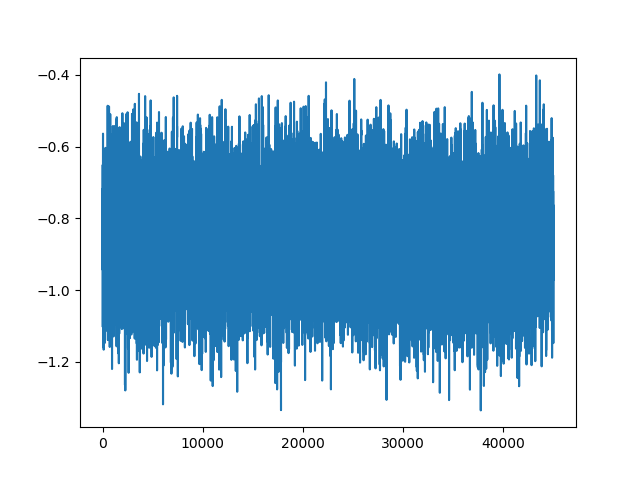
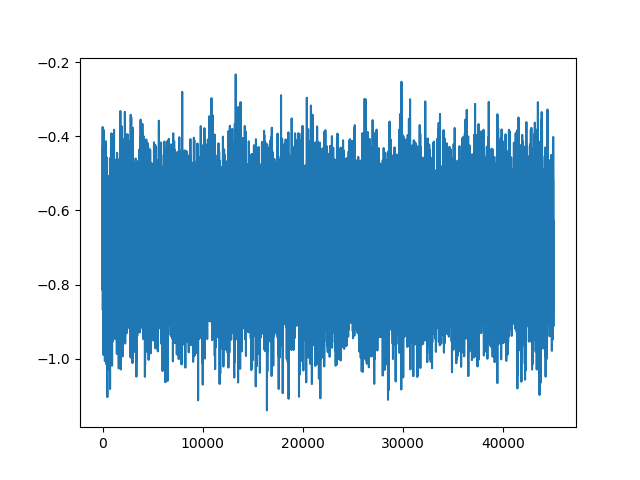
Updated priors

diff --git a/project/simple_binomial.py b/project/simple_binomial.py
@@ -1,6 +1,6 @@
 """Simple ABC example with a binomial model.
 
-   Comparison of MCMC-ABC, conventional MH MCMC and an anlytical solution.
+   Comparison of MCMC-ABC, conventional MH MCMC and an analytical solution.
 
    Copyright (c) 2018, Felix Held
 """
@@ -62,14 +62,14 @@ def mcmc_abc(data, M=10000, sigma=1e-1, eps=1e-1):
             if np.linalg.norm(D - Dsim, ord=1) <= eps:
                 break
 
-        # # Beta(2, 2) prior
-        # lacc = stats.beta(2, 2).logpdf(logistic(pnew)) + \
-        #     loglogistic(pnew) + np.log(1 - logistic(pnew)) - \
-        #     (stats.beta(2, 2).logpdf(logistic(ps[m])) + \
-        #     loglogistic(ps[m]) + np.log(1 - logistic(ps[m])))
-        # Normal(0, 1.6) prior on unbounded scale
-        lacc = stats.norm(0, 1.6).logpdf(pnew) - \
-            stats.norm(0, 1.6).logpdf(ps[m])
+        # Beta(2, 2) prior
+        lacc = stats.beta(2, 2).logpdf(logistic(pnew)) + \
+            loglogistic(pnew) + np.log(1 - logistic(pnew)) - \
+            (stats.beta(2, 2).logpdf(logistic(ps[m])) + \
+            loglogistic(ps[m]) + np.log(1 - logistic(ps[m])))
+        # # Normal(0, 1.6) prior on unbounded scale
+        # lacc = stats.norm(0, 1.6).logpdf(pnew) - \
+        #     stats.norm(0, 1.6).logpdf(ps[m])
 
         # Metropolis-Hastings acceptance step
         h = min(1, np.exp(lacc))
@@ -105,18 +105,18 @@ def mh(data, M=10000, sigma=1e-1):
     for m in tqdm(range(M)):
         pnew = ps[m] + sigma * np.random.randn()
 
-        # # Beta(2, 2) prior
-        # lacc = np.sum(stats.binom.logpmf(data, 3, logistic(pnew))) + \
-        #     stats.beta(2, 2).logpdf(logistic(pnew)) + \
-        #     loglogistic(pnew) + np.log(1 - logistic(pnew)) - \
-        #     (np.sum(stats.binom.logpmf(data, 3, logistic(ps[m]))) + \
-        #      stats.beta(2, 2).logpdf(logistic(ps[m])) + \
-        #      loglogistic(ps[m]) + np.log(1 - logistic(ps[m])))
-        # Normal(0, 1.6) prior on unbounded scale
+        # Beta(2, 2) prior
         lacc = np.sum(stats.binom.logpmf(data, 3, logistic(pnew))) + \
-            stats.norm(0, 1.6).logpdf(pnew) - \
+            stats.beta(2, 2).logpdf(logistic(pnew)) + \
+            loglogistic(pnew) + np.log(1 - logistic(pnew)) - \
             (np.sum(stats.binom.logpmf(data, 3, logistic(ps[m]))) + \
-             stats.norm(0, 1.6).logpdf(ps[m]))
+             stats.beta(2, 2).logpdf(logistic(ps[m])) + \
+             loglogistic(ps[m]) + np.log(1 - logistic(ps[m])))
+        # # Normal(0, 1.6) prior on unbounded scale
+        # lacc = np.sum(stats.binom.logpmf(data, 3, logistic(pnew))) + \
+        #     stats.norm(0, 1.6).logpdf(pnew) - \
+        #     (np.sum(stats.binom.logpmf(data, 3, logistic(ps[m]))) + \
+        #      stats.norm(0, 1.6).logpdf(ps[m]))
 
         # Metropolis-Hastings acceptance step
         h = min(1, np.exp(lacc))
@@ -132,6 +132,9 @@ def ep_abc(data, passes=3, M=10000, Mbatch=1000, eps=1e-1):
     """Implementation of EP-ABC for the particular problem.
 
     Very naive implementation of EP-ABC for one parameter.
+    Normal(0, 1.6) prior is used on the unbounded scale.
+    This prior has very similar properties as a Beta(2, 2)
+    prior on the bounded scale.
 
     Parameters:
         data - data from the experiment
@@ -190,6 +193,9 @@ def ep_abc_iid(data, passes=3, M=10000, Mbatch=1000, eps=1e-1, ess_min=3000):
     """Implementation of iid optimised EP-ABC for the particular problem.
 
     IID optimised implementation of EP-ABC for one parameter.
+    Normal(0, 1.6) prior is used on the unbounded scale.
+    This prior has very similar properties as a Beta(2, 2)
+    prior on the bounded scale.
 
     Parameters:
         data - data from the experiment
